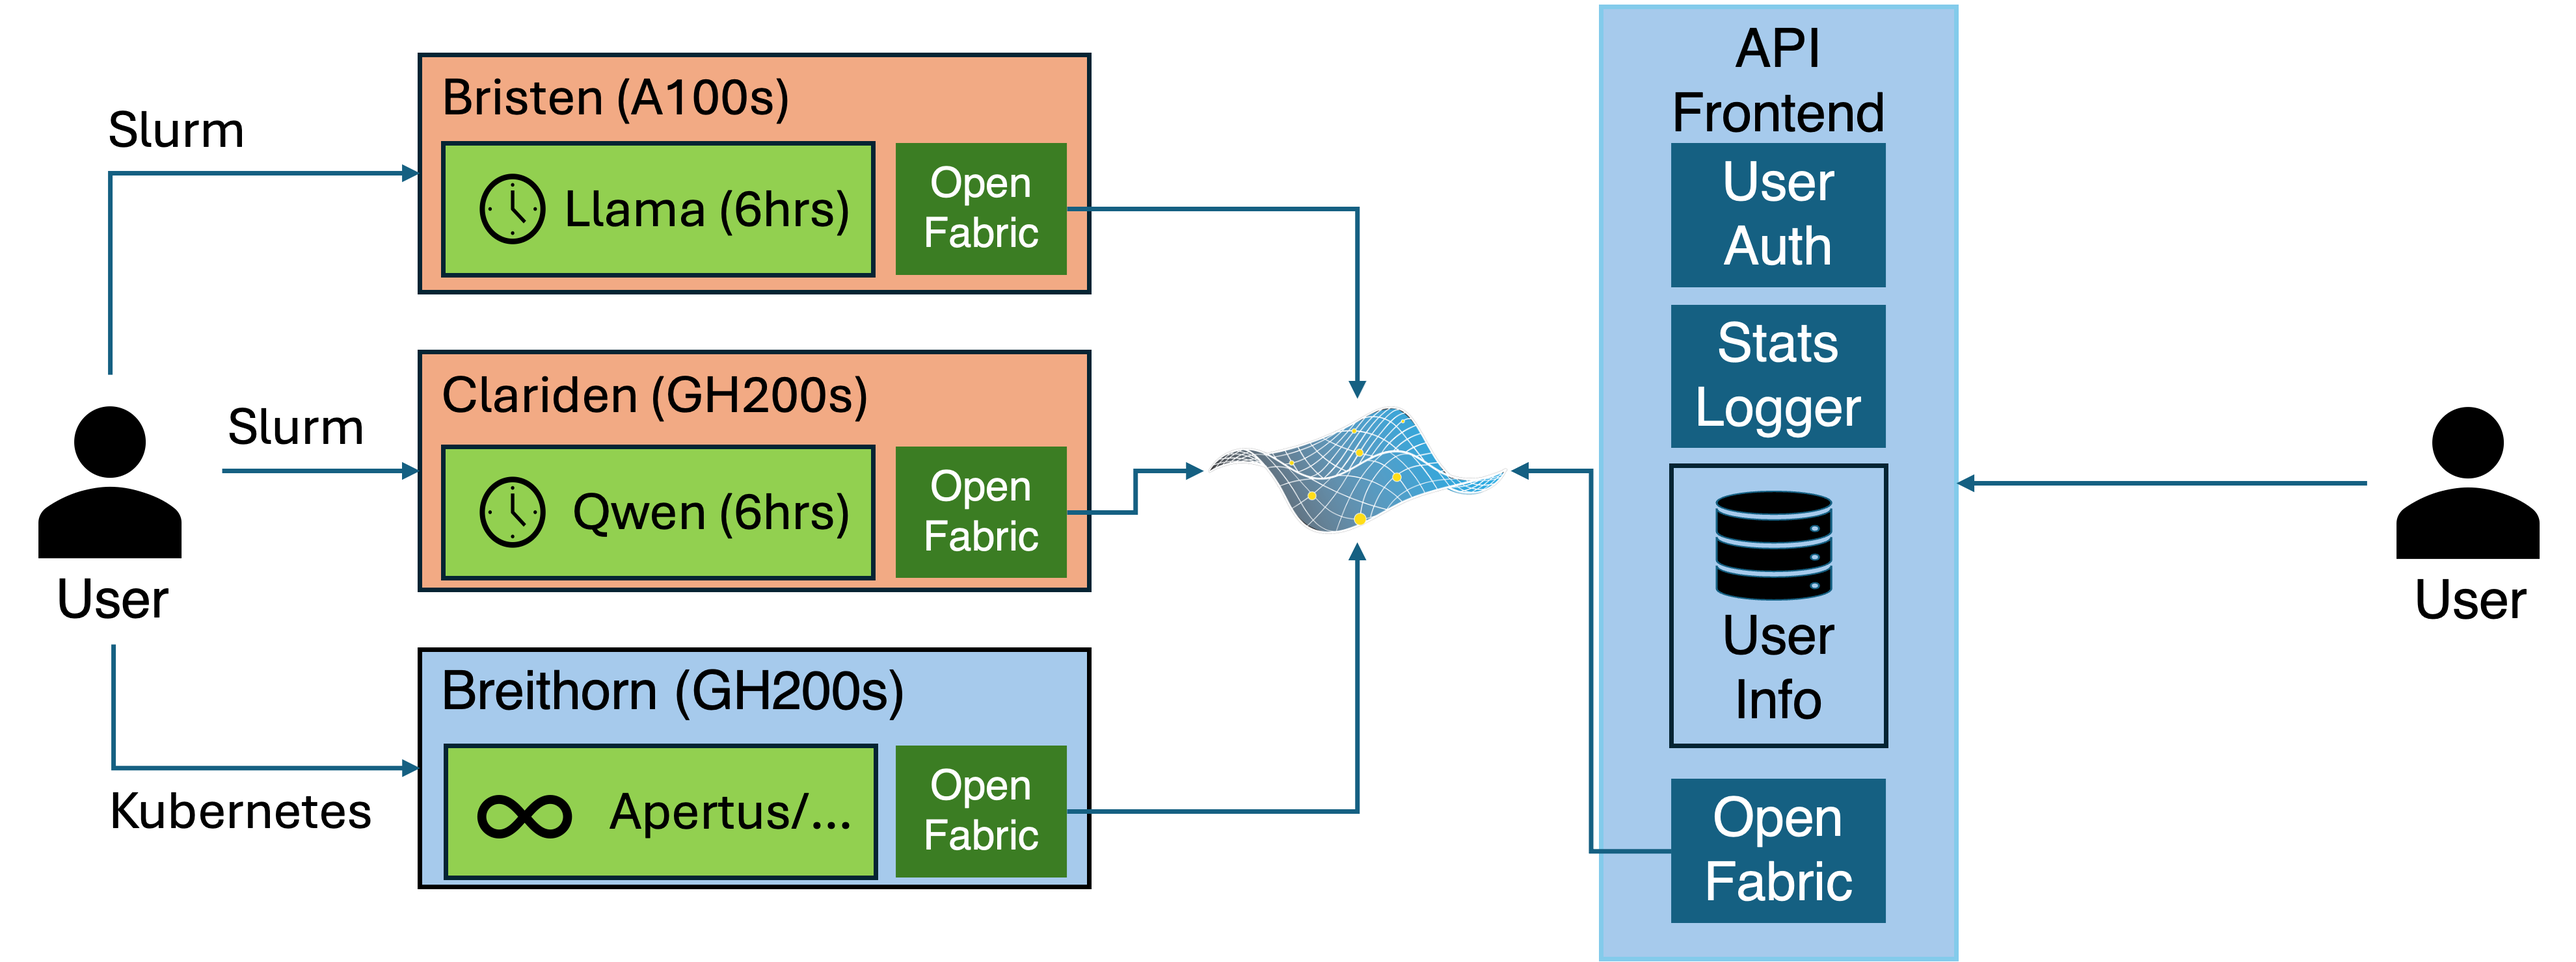
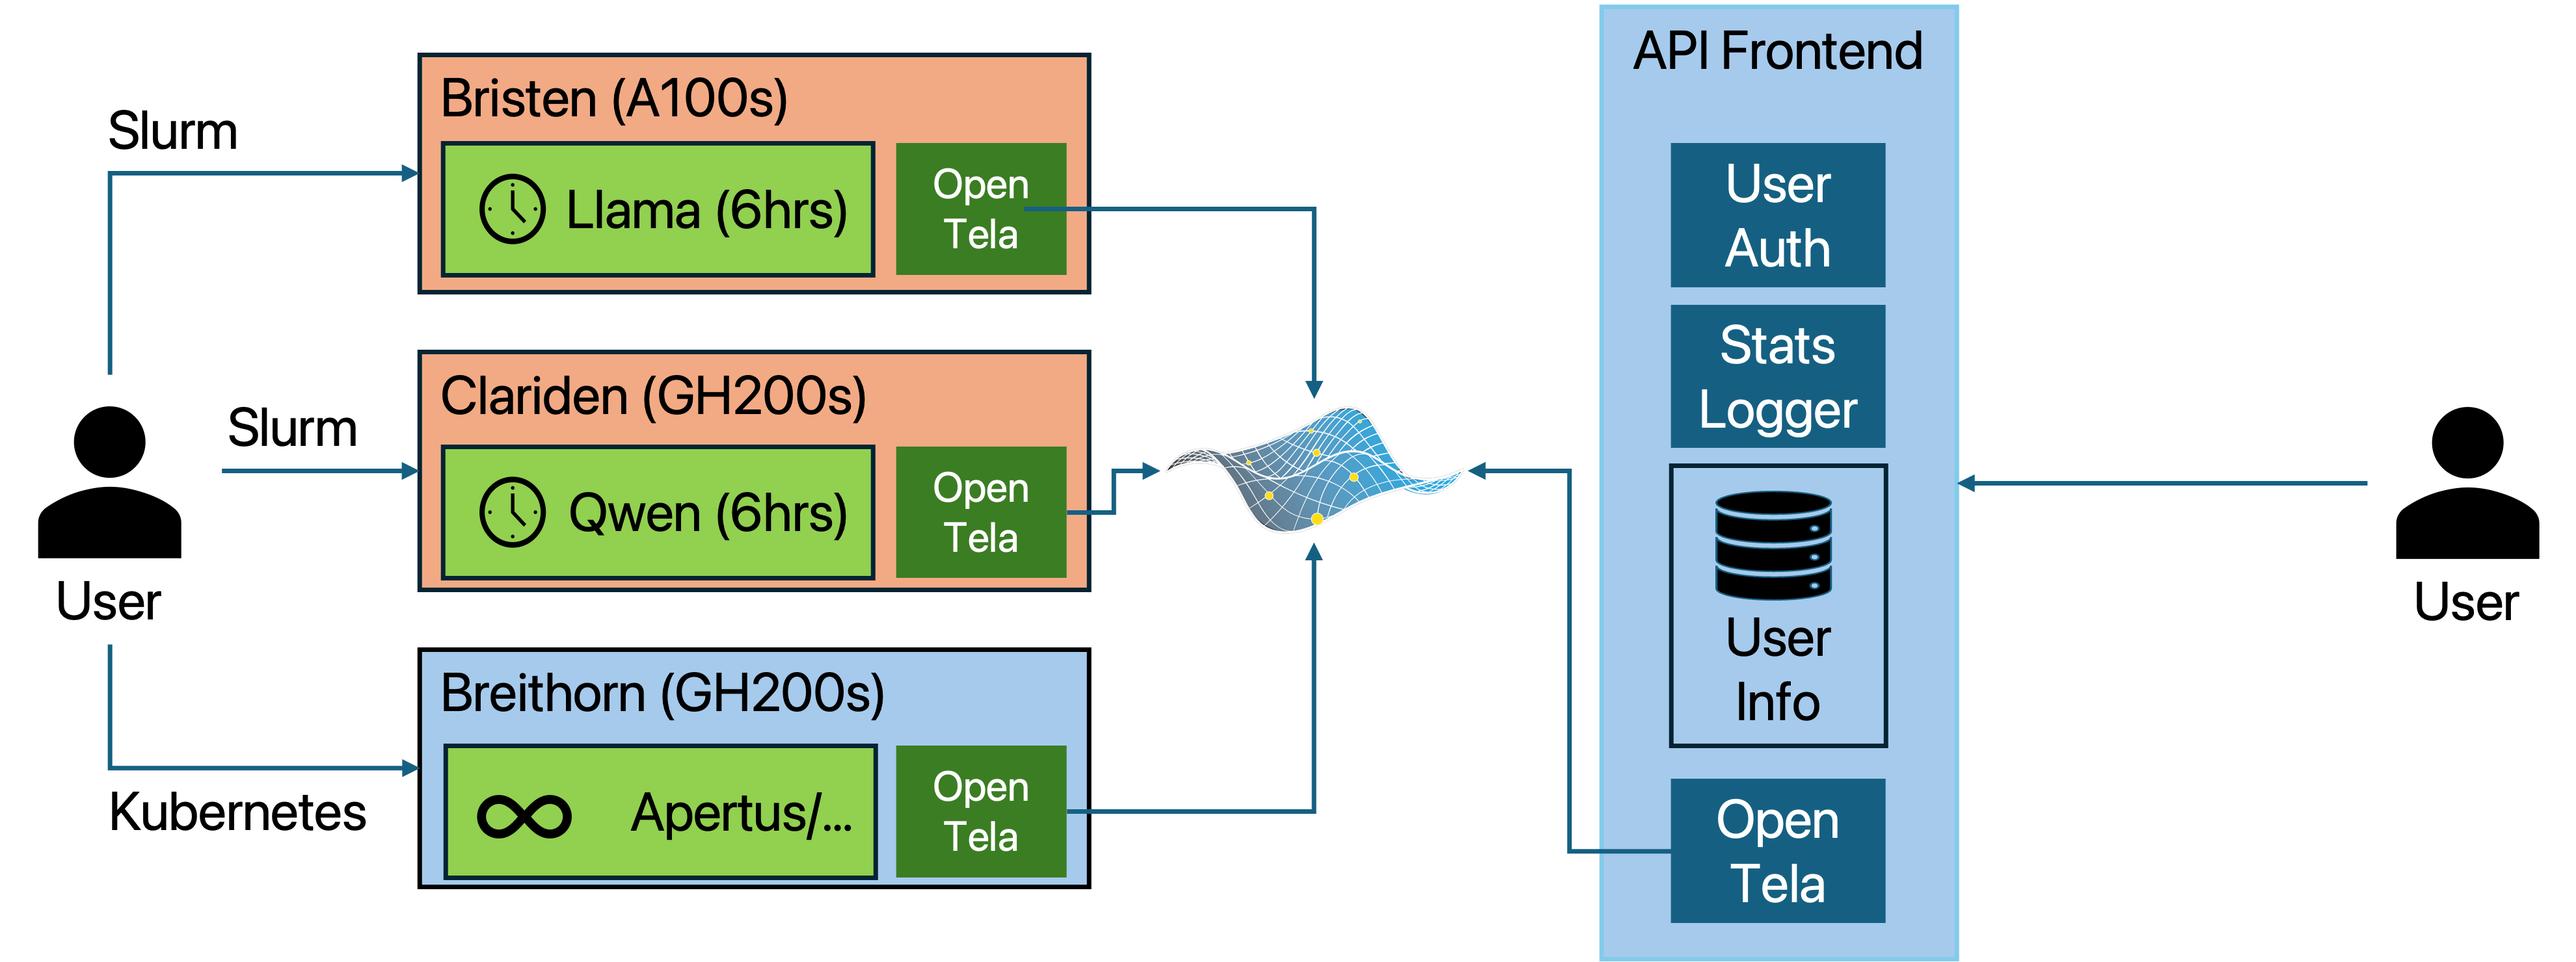
Renaming from OpenFabric to OpenTela to avoid confusion (#28)
* rename from OpenFabric to OpenTela (avoid confusion)

* renaming

* renaming

* renaming

* rename

diff --git a/src/internal/common/process/process.go b/src/internal/common/process/process.go
@@ -4,7 +4,7 @@ import (
 	"bufio"
 	"io"
 	"log"
-	"ocf/internal/common"
+	"opentela/internal/common"
 	"os"
 	"os/exec"
 	"sync"
@@ -69,13 +69,13 @@ func (p *Process) Start() *Process {
 			p.Kill()
 		}()
 	}
-    p.started = true
-    // If StreamOutput has been set, do not override stdout/stderr to ensure
-    // the caller can consume output via the returned scanner.
-    if !p.outputStreamSet {
-        p.proc.Stdout = os.Stdout
-        p.proc.Stderr = os.Stderr
-    }
+	p.started = true
+	// If StreamOutput has been set, do not override stdout/stderr to ensure
+	// the caller can consume output via the returned scanner.
+	if !p.outputStreamSet {
+		p.proc.Stdout = os.Stdout
+		p.proc.Stderr = os.Stderr
+	}
 	//Call the other functions to stream stdin and stdout
 	err := p.proc.Start()
 	if err != nil {
@@ -83,8 +83,8 @@ func (p *Process) Start() *Process {
 	}
 	p.pid = p.proc.Process.Pid
 	common.Logger.Debug("Process started with pid: ", p.pid)
-    go p.awaitOutput()
-    go p.finishTimeOutOrDie()
+	go p.awaitOutput()
+	go p.finishTimeOutOrDie()
 	return p
 }
 
@@ -149,21 +149,21 @@ func (p *Process) StreamOutput() *bufio.Scanner {
 }
 
 func (p *Process) finishTimeOutOrDie() {
-    var result error
-    select {
-    case result = <-p.done:
-        // Process finished naturally; we captured the Wait() result
-    case <-p.cancellationSignal:
-        log.Println("received cancellationSignal")
-        // NOT PORTABLE TO WINDOWS
-        if err := p.proc.Process.Kill(); err != nil {
-            log.Println(err)
-        }
-        // Ensure we propagate the actual process exit error after kill
-        result = <-p.done
-    }
-    p.returnCode <- result
-    p.cleanup()
+	var result error
+	select {
+	case result = <-p.done:
+		// Process finished naturally; we captured the Wait() result
+	case <-p.cancellationSignal:
+		log.Println("received cancellationSignal")
+		// NOT PORTABLE TO WINDOWS
+		if err := p.proc.Process.Kill(); err != nil {
+			log.Println(err)
+		}
+		// Ensure we propagate the actual process exit error after kill
+		result = <-p.done
+	}
+	p.returnCode <- result
+	p.cleanup()
 }
 
 func (p *Process) cleanup() {

diff --git a/src/entry/cmd/root.go b/src/entry/cmd/root.go
@@ -2,7 +2,7 @@ package cmd
 
 import (
 	"fmt"
-	"ocf/internal/common"
+	"opentela/internal/common"
 	"os"
 	"path"
 	"strconv"
@@ -16,8 +16,8 @@ import (
 
 var cfgFile string
 var rootcmd = &cobra.Command{
-	Use:   "ocf",
-	Short: "OpenFabric is a decentralized fabric for running machine learning applications.",
+	Use:   "otela",
+	Short: "OpenTela is a decentralized fabric for running machine learning applications.",
 	Long:  ``,
 	PersistentPreRunE: func(cmd *cobra.Command, args []string) error {
 		return initConfig(cmd)
@@ -32,7 +32,7 @@ var rootcmd = &cobra.Command{
 
 //nolint:gochecknoinits
 func init() {
-	rootcmd.PersistentFlags().StringVar(&cfgFile, "config", "", "config file (default is $HOME/.config/ocf/cfg.yaml)")
+	rootcmd.PersistentFlags().StringVar(&cfgFile, "config", "", "config file (default is $HOME/.config/otela/cfg.yaml)")
 	startCmd.Flags().String("wallet.account", "", "wallet account")
 	startCmd.Flags().String("account.wallet", "", "path to wallet key file")
 	startCmd.Flags().String("bootstrap.addr", "http://152.67.71.5:8092/v1/dnt/bootstraps", "bootstrap address")

diff --git a/src/entry/cmd/root_test.go b/src/entry/cmd/root_test.go
@@ -13,10 +13,10 @@ import (
 
 func TestRootCommand(t *testing.T) {
 	tests := []struct {
-		name     string
-		args     []string
-		expect   string
-		wantErr  bool
+		name    string
+		args    []string
+		expect  string
+		wantErr bool
 	}{
 		{
 			name:    "no arguments shows help",
@@ -51,8 +51,8 @@ func TestRootCommand(t *testing.T) {
 }
 
 func TestRootCommandProperties(t *testing.T) {
-	assert.Equal(t, "ocfcore", rootcmd.Use)
-	assert.Equal(t, "ocfcore", rootcmd.Short)
+	assert.Equal(t, "otela", rootcmd.Use)
+	assert.Equal(t, "OpenTela is a decentralized fabric for running machine learning applications.", rootcmd.Short)
 	assert.Empty(t, rootcmd.Long)
 	assert.NotNil(t, rootcmd.PersistentPreRunE)
 	assert.NotNil(t, rootcmd.Run)
@@ -191,10 +191,10 @@ func TestInitConfigFlagBinding(t *testing.T) {
 
 func TestExecute(t *testing.T) {
 	tests := []struct {
-		name     string
-		args     []string
-		setup    func()
-		wantErr  bool
+		name    string
+		args    []string
+		setup   func()
+		wantErr bool
 	}{
 		{
 			name:    "execute with no args",

diff --git a/src/entry/main.go b/src/entry/main.go
@@ -1,23 +1,23 @@
 package main
 
 import (
-	"ocf/entry/cmd"
-	"ocf/internal/common"
+	"opentela/entry/cmd"
+	"opentela/internal/common"
 )
 
 var (
 	// Populated during build
-	version     = "dev"
-	commitHash  = "?"
-	buildDate   = ""
-    // buildSecret left for future use to verify official builds
-    buildSecret string
+	version    = "dev"
+	commitHash = "?"
+	buildDate  = ""
+	// buildSecret left for future use to verify official builds
+	buildSecret string
 )
 
 func main() {
 	common.JSONVersion.Version = version
 	common.JSONVersion.Commit = commitHash
 	common.JSONVersion.Date = buildDate
-    _ = buildSecret
+	_ = buildSecret
 	cmd.Execute()
 }

diff --git a/src/entry/cmd/version.go b/src/entry/cmd/version.go
@@ -2,16 +2,16 @@ package cmd
 
 import (
 	"fmt"
-	"ocf/internal/common"
+	"opentela/internal/common"
 
 	"github.com/spf13/cobra"
 )
 
 var versionCmd = &cobra.Command{
 	Use:   "version",
-	Short: "Print the version of ocfcore",
+	Short: "Print the version of OpenTela",
 	Run: func(cmd *cobra.Command, args []string) {
-		fmt.Printf("ocfcore version %s", common.JSONVersion.Version)
+		fmt.Printf("OpenTela version %s", common.JSONVersion.Version)
 		fmt.Printf(" (commit: %s)", common.JSONVersion.Commit)
 		fmt.Printf(" (built at: %s)", common.JSONVersion.Date)
 		fmt.Println()

diff --git a/src/internal/server/server.go b/src/internal/server/server.go
@@ -3,11 +3,11 @@ package server
 import (
 	"context"
 	"net/http"
-	"ocf/internal/common"
-	"ocf/internal/common/process"
-	"ocf/internal/protocol"
-	solanaclient "ocf/internal/solana"
-	"ocf/internal/wallet"
+	"opentela/internal/protocol"
+	solanaclient "opentela/internal/solana"
+	"opentela/internal/common"
+	"opentela/internal/common/process"
+	"opentela/internal/wallet"
 	"os/signal"
 	"syscall"
 	"time"
@@ -103,7 +103,7 @@ func StartServer() {
 			"openapiUrl": "/openapi.yaml",
 		})
 	})
-	
+
 	// Prometheus metrics
 	r.GET("/metrics", gin.WrapH(promhttp.Handler()))
 

diff --git a/src/entry/cmd/update.go b/src/entry/cmd/update.go
@@ -3,7 +3,7 @@ package cmd
 import (
 	"fmt"
 	"net/http"
-	"ocf/internal/common"
+	"opentela/internal/common"
 	"runtime"
 
 	"github.com/minio/selfupdate"
@@ -13,7 +13,7 @@ import (
 func doUpdate() error {
 	// detect cpu arch
 	arch := runtime.GOARCH
-	url := "https://github.com/eth-easl/OpenFabric/releases/latest/download/ocf-" + arch
+	url := "https://github.com/eth-easl/OpenTela/releases/latest/download/otela-" + arch
 	common.Logger.Info("Downloading from ", url)
 	resp, err := http.Get(url)
 	if err != nil {

diff --git a/src/internal/protocol/crdt.go b/src/internal/protocol/crdt.go
@@ -4,12 +4,12 @@ import (
 	"context"
 	"encoding/json"
 	"fmt"
-	"ocf/internal/common"
+	"opentela/internal/common"
 	"strings"
 	"sync"
 	"time"
 
-	crdt "ocf/internal/protocol/go-ds-crdt"
+	crdt "opentela/internal/protocol/go-ds-crdt"
 
 	ipfslite "github.com/hsanjuan/ipfs-lite"
 	ds "github.com/ipfs/go-datastore"

diff --git a/src/entry/cmd/version_test.go b/src/entry/cmd/version_test.go
@@ -10,7 +10,7 @@ import (
 
 func TestVersionCommandProperties(t *testing.T) {
 	assert.Equal(t, "version", versionCmd.Use)
-	assert.Equal(t, "Print the version of ocfcore", versionCmd.Short)
+	assert.Equal(t, "Print the version of OpenTela", versionCmd.Short)
 	assert.NotNil(t, versionCmd.Run)
 }
 

diff --git a/src/entry/cmd/start.go b/src/entry/cmd/start.go
@@ -1,9 +1,9 @@
 package cmd
 
 import (
-	"ocf/internal/common"
-	"ocf/internal/protocol"
-	"ocf/internal/server"
+	"opentela/internal/common"
+	"opentela/internal/protocol"
+	"opentela/internal/server"
 
 	"github.com/spf13/cobra"
 	"github.com/spf13/viper"

diff --git a/src/internal/protocol/node_table.go b/src/internal/protocol/node_table.go
@@ -4,9 +4,9 @@ import (
 	"context"
 	"encoding/json"
 	"errors"
-	"ocf/internal/common"
-	"ocf/internal/platform"
-	"ocf/internal/wallet"
+	"opentela/internal/common"
+	"opentela/internal/platform"
+	"opentela/internal/wallet"
 	"sync"
 	"time"
 

diff --git a/src/internal/protocol/tombstone_manager.go b/src/internal/protocol/tombstone_manager.go
@@ -5,8 +5,8 @@ import (
 	"sync"
 	"time"
 
-	"ocf/internal/common"
-	crdt "ocf/internal/protocol/go-ds-crdt"
+	"opentela/internal/common"
+	crdt "opentela/internal/protocol/go-ds-crdt"
 
 	ds "github.com/ipfs/go-datastore"
 )
